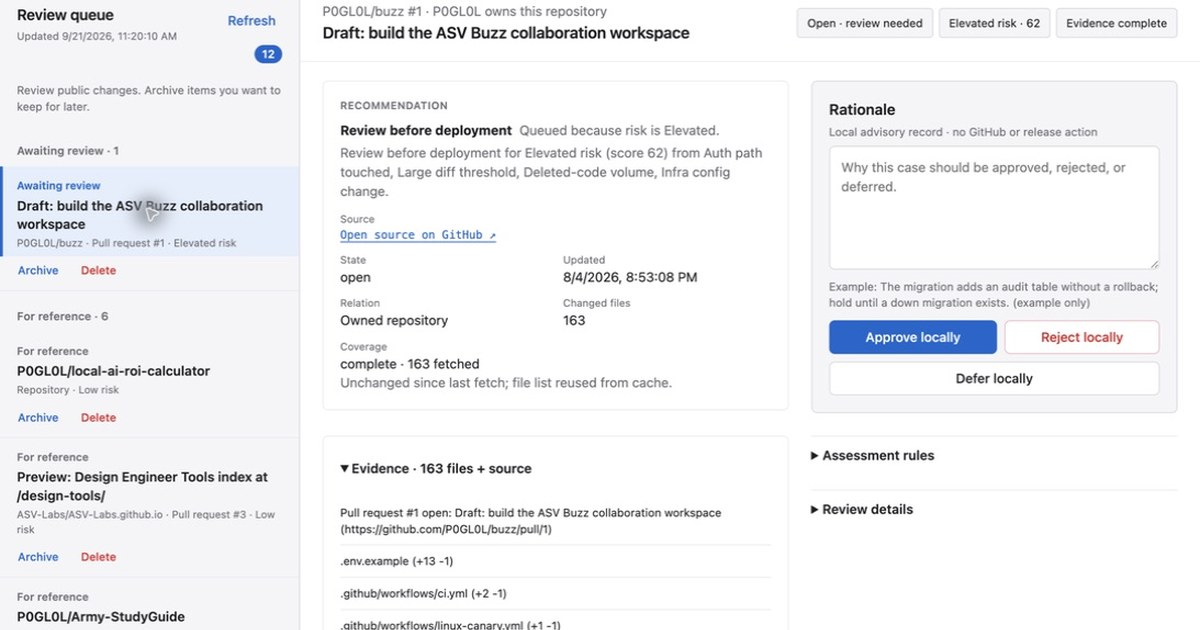
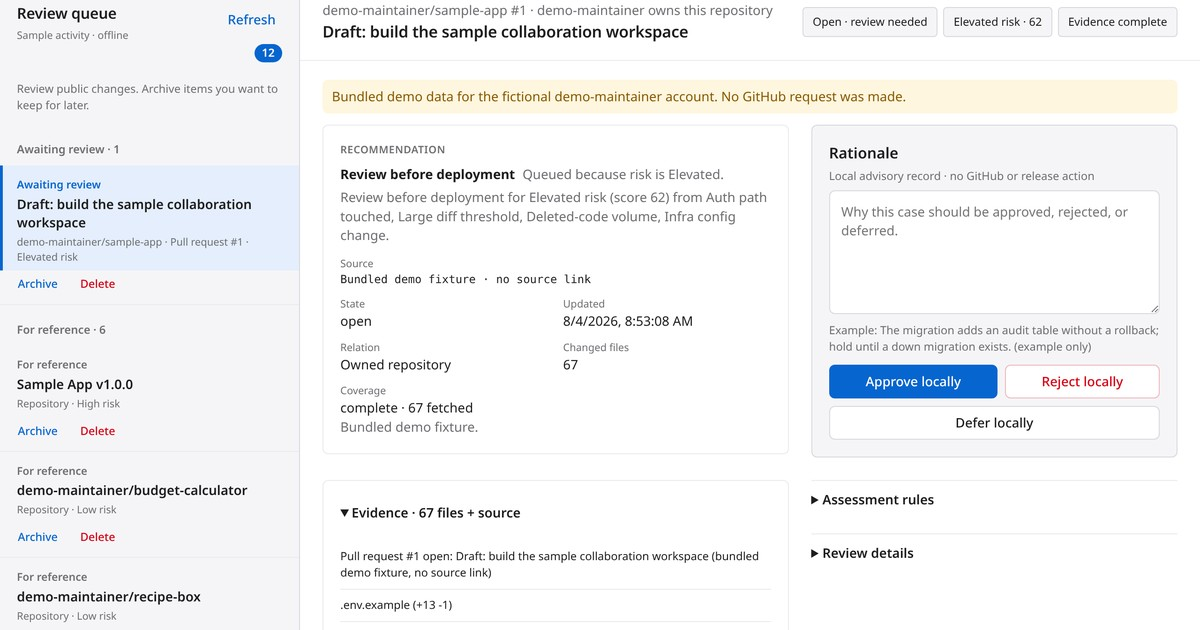
Replace identifying pilot account mentions with demo-account wording [skip ci]
Also replace the Open Graph card with a crop from a development
capture of the demo-data build. Landing copy keeps the verified
0.9.6/build 5 wording.

Squash of 326f94c1, a4058809 and 7c1d3f43 onto gh-pages 3acedd05.

diff --git a/index.html b/index.html
@@ -14,13 +14,13 @@
 <section class="intro" aria-labelledby="headline">
 <div class="intro-copy"><p class="eyebrow">A desktop review trail for software changes</p><h1 id="headline">Understand the change.<br><em>Make the call.</em></h1><p class="lead">Software changes quickly. Knowing what deserves a closer look shouldn’t require piecing together every conversation.</p><p class="definition">Kinetik gathers public work from GitHub into a review queue, highlights what may need attention, and gives you a place to record your judgment—right on your Mac.</p><div class="hero-actions"><a class="button primary" href="#alpha">Apply for the private alpha <span aria-hidden="true">↓</span></a><a class="text-link" href="#workflow">Walk through a review</a></div></div>
 <aside class="trail" aria-label="The review trail"><span class="trail-caption">THE PATH FROM CHANGE TO CLARITY</span><ol><li><span>01 / INCOMING</span><strong>Public activity</strong><p>Proposed changes, issues,<br>and project context.</p></li><li><span>02 / YOUR JUDGMENT</span><strong>A considered decision</strong><p>Read the evidence.<br>Write down your reason.</p></li><li><span>03 / ON YOUR MAC</span><strong>A record to return to</strong><p>Keep the decision.<br>Export the report.</p></li></ol></aside>
-<div class="scope-line"><span class="status-dot" aria-hidden="true"></span><strong>Invitation-only alpha</strong><p>Apple silicon Mac · Public sample activity for <a href="https://github.com/P0GL0L">P0GL0L</a> · Decisions stay local</p></div>
+<div class="scope-line"><span class="status-dot" aria-hidden="true"></span><strong>Invitation-only alpha</strong><p>Apple silicon Mac · Public sample activity from a demo account · Decisions stay local</p></div>
 </section>
 <section class="read-section" id="workflow" aria-labelledby="read-title"><div class="section-index">01 <span>READ THE CHANGE</span></div><div class="read-grid"><div><h2 id="read-title">Start with what<br>actually changed.</h2><p>A <strong>pull request</strong> is a proposed software change. An <strong>issue</strong> is a task, bug report, or discussion. Kinetik brings these together with project activity so you can decide where to look first.</p><p>Each case shows its source, current state, risk band, and evidence coverage. Open the source on GitHub to read the original work.</p><a class="text-link" href="https://github.com/ASV-Labs/kinetik-triage/blob/main/USER_GUIDE.md#2-read-the-evidence">Reading the evidence ↗</a></div><div class="evidence-ledger"><p class="eyebrow">The questions behind each case</p><dl><div><dt>Source</dt><dd>Where did this come from?<small>A link to the original public GitHub item.</small></dd></div><div><dt>Risk</dt><dd>What deserves attention?<small>A rule-based signal for closer human review.</small></dd></div><div><dt>Coverage</dt><dd>How much could Kinetik see?<small>Complete, partial, or unavailable file evidence.</small></dd></div><div><dt>State</dt><dd>Is there still a decision to make?<small>Open work is separated from closed activity.</small></dd></div></dl><p class="footnote">A risk label is a review aid. It is not a guarantee that a change is safe.</p></div></div></section>
 <section class="decide-section" aria-labelledby="decide-title"><div class="section-index">02 <span>RECORD YOUR JUDGMENT</span></div><div class="workbench"><div class="decision-copy"><h2 id="decide-title">The important part<br>is your reason.</h2><p>Approve, reject, or defer a case after reading its evidence. Add a short explanation so your future self knows why.</p><p class="local-boundary">Your decision is a local review note.<br>It does not approve a GitHub pull request or release software.</p><a class="text-link" href="https://github.com/ASV-Labs/kinetik-triage/blob/main/USER_GUIDE.md#3-write-your-reason-and-decide">What each decision means ↗</a></div><div class="trial" data-wdi-product-proof="runnable-dom" data-wdi-source-ref="demo.js (desktop decision validation, 0.9.5/build 4)"><div class="trial-top"><span class="eyebrow">TRY THE DECISION STEP</span><span class="sample-tag">Sample · nothing saved</span></div><p class="sample-context"><strong>Example:</strong> A proposed change alters how a release is approved. What would you want checked before it goes ahead?</p><form id="decision-example" novalidate><label for="rationale">Your reason</label><textarea id="rationale" name="rationale" rows="3" aria-describedby="reason-hint reason-error" placeholder="I would defer until the approval rules have been reviewed…" required></textarea><p class="field-hint" id="reason-hint">Use at least 12 characters. The desktop app asks for the same case-specific explanation.</p><p id="reason-error" class="form-error" role="alert" hidden></p><fieldset><legend class="sr-only">Record a sample local decision</legend><button type="button" name="action" value="approve">Approve locally</button><button type="button" name="action" value="reject">Reject locally</button><button type="button" name="action" value="defer">Defer locally</button></fieldset></form><div id="decision-result" class="result" tabindex="-1" hidden><p class="eyebrow">EXAMPLE OUTCOME</p><h3 id="outcome-title"></h3><p id="outcome-reason"></p><p class="field-hint">In the Mac app, this becomes a saved local record. This website sends and saves nothing from this example.</p><button id="try-again" type="button">Try another decision ↺</button></div><noscript><p>The interactive example needs JavaScript. In the Mac app, write a reason, then choose Approve, Reject, or Defer locally.</p></noscript><p class="demo-note">A small runnable adaptation of the desktop decision form. <a href="provenance.md">View its source notes</a>.</p></div></div></section>
-<section class="keep-section" aria-labelledby="keep-title"><div class="section-index">03 <span>KEEP THE REVIEW TRAIL</span></div><div class="keep-grid"><div class="report-object"><div class="file-line"><span>LOCAL EXPORT</span><span>JSON + MARKDOWN</span></div><h3>Analytics &amp; Metrics</h3><dl><div><dt>Queue</dt><dd>Ingested, actionable, decided, historical</dd></div><div><dt>Decisions</dt><dd>Approve · reject · defer</dd></div><div><dt>Evidence</dt><dd>Risk bands and coverage</dd></div><div><dt>Diagnostics</dt><dd>Fetch time, queue-build time, memory, errors</dd></div></dl><p class="file-name">kinetik-analytics-P0GL0L-[timestamp].md</p><p class="footnote">The report includes the source, fetch time, and any errors so you can judge its freshness.</p></div><div><h2 id="keep-title">Leave with a record,<br>not just a feeling.</h2><p>Your review stays available when you reopen the app. If the underlying assessment changes, Kinetik keeps the earlier decision as history and can ask for a fresh look.</p><p>Export a readable Markdown report or a JSON file for tools. Choose what to share after reviewing its contents.</p><a class="text-link" href="https://github.com/ASV-Labs/kinetik-triage/blob/main/USER_GUIDE.md#5-export-a-report">Export your first report ↗</a></div></div></section>
-<section class="alpha-section" id="alpha" aria-labelledby="alpha-title"><p class="eyebrow">PRIVATE ALPHA / APPLICATIONS</p><div class="alpha-grid"><div><h2 id="alpha-title">A small cohort.<br>A considered start.</h2><p>Apply by email to explore the review workflow using public sample activity. We review each application personally. Applying does not grant access or guarantee an invitation.</p><div id="application-contact"><a class="button primary" href="mailto:SaltyEngineer@ASVLabs.com?subject=Kinetik%20private-alpha%20application&amp;body=Hi%20ASV%20Labs%2C%0A%0AI%20would%20like%20to%20apply%20for%20the%20Kinetik%20Triage%20private%20alpha.%0A%0AName%3A%20%0AMac%20model%20%28Apple%20silicon%29%3A%20%0AmacOS%20version%3A%20%0AWhat%20I%20would%20like%20to%20test%3A%20%0A%0AI%20understand%20that%20this%20pilot%20uses%20public%20P0GL0L%20activity%2C%20records%20decisions%20locally%2C%20and%20requires%20an%20invitation%20before%20I%20receive%20the%20installer.%0A">Apply by email <span aria-hidden="true">↗</span></a><p class="release-note">Opens an email draft. Review it and send it to apply.<br>Opening a draft does not submit an application.</p><p class="application-address">Prefer webmail? Write to <a href="mailto:SaltyEngineer@ASVLabs.com">SaltyEngineer@ASVLabs.com</a> with the subject <strong>Kinetik private-alpha application</strong>.</p></div><ol class="application-steps"><li>Tell us your name, Mac model, macOS version and what you want to test.</li><li>We review your application and reply by email.</li><li>If invited, you receive private installation instructions and the illustrated guide once the Mac package is verified.</li></ol><p class="release-note">No payment required to apply. No automatic access or public download.</p></div><dl class="release-ledger"><div><dt>Candidate</dt><dd>0.9.6 · build 5 <a href="https://github.com/ASV-Labs/kinetik-triage/blob/main/RELEASE_STATUS.md">Details ↗</a></dd></div><div><dt>Platform</dt><dd>Apple silicon · macOS 13 or later</dd></div><div><dt>Data</dt><dd>Public P0GL0L activity. No account picker or private repositories.</dd></div><div><dt>Actions</dt><dd>Local decisions, Library organization and file exports. No GitHub writes or deployments.</dd></div><div><dt>Distribution</dt><dd>Invitation only. A notarized Mac installer is staged for private testing. Downloads are not public.</dd></div><div><dt>Updates</dt><dd>New builds are supplied to approved testers. This alpha does not update itself automatically.</dd></div><div><dt>Help</dt><dd><a href="https://github.com/ASV-Labs/kinetik-triage/blob/main/USER_GUIDE.md">Illustrated user guide ↗</a><a href="https://github.com/ASV-Labs/kinetik-triage/issues">Report a problem ↗</a></dd></div></dl></div></section>
-<section class="questions" aria-labelledby="questions-title"><h2 id="questions-title">Before you try it.</h2><div><details><summary>How does invitation-only access work?</summary><p>Apply by email, then wait for a personal reply. We share installation instructions with approved testers after the package passes its release checks. The desktop pilot has no account login or license enforcement, so please do not redistribute an invited build.</p></details><details><summary>How do I get updates?</summary><p>Approved testers receive new verified builds and release notes through the private invitation channel. Quit Kinetik before replacing the app. Your review files stay on your Mac; back them up before testing a new alpha. There is no automatic updater in this version.</p></details><details><summary>Do I need to be a developer?</summary><p>You can follow the guide without writing code. Familiarity with the project helps you judge a change. Kinetik organizes evidence; it does not replace the people who understand that software.</p></details><details><summary>Can I connect my own projects?</summary><p>Not in this alpha. The current pilot uses public P0GL0L activity, which can include contributions to other repositories. There is no profile picker, private repository access, or GitHub sign-in.</p></details><details><summary>Does “Approve locally” change GitHub?</summary><p>No. All decisions stay on this Mac. Nothing is merged, deployed, or published. Defer records a decision but does not schedule a reminder.</p></details><details><summary>What happens without an internet connection?</summary><p>The app can show its last saved public queue when available. It labels cached or failed loads so you know the data may be old. A first launch without data can show an empty queue and an error.</p></details><details><summary>Where does my information go?</summary><p>The desktop app requests public GitHub data; GitHub sees ordinary network metadata. Your rationale and local decisions are not sent to GitHub. This landing page has no analytics or form submission service. Applying opens your email app; you choose whether to send your application to ASV Labs. Your email provider processes that message. See the <a href="https://github.com/ASV-Labs/kinetik-triage/blob/main/PRIVACY.md">privacy notice</a>.</p></details></div></section>
+<section class="keep-section" aria-labelledby="keep-title"><div class="section-index">03 <span>KEEP THE REVIEW TRAIL</span></div><div class="keep-grid"><div class="report-object"><div class="file-line"><span>LOCAL EXPORT</span><span>JSON + MARKDOWN</span></div><h3>Analytics &amp; Metrics</h3><dl><div><dt>Queue</dt><dd>Ingested, actionable, decided, historical</dd></div><div><dt>Decisions</dt><dd>Approve · reject · defer</dd></div><div><dt>Evidence</dt><dd>Risk bands and coverage</dd></div><div><dt>Diagnostics</dt><dd>Fetch time, queue-build time, memory, errors</dd></div></dl><p class="file-name">kinetik-analytics-[account]-[timestamp].md</p><p class="footnote">The report includes the source, fetch time, and any errors so you can judge its freshness.</p></div><div><h2 id="keep-title">Leave with a record,<br>not just a feeling.</h2><p>Your review stays available when you reopen the app. If the underlying assessment changes, Kinetik keeps the earlier decision as history and can ask for a fresh look.</p><p>Export a readable Markdown report or a JSON file for tools. Choose what to share after reviewing its contents.</p><a class="text-link" href="https://github.com/ASV-Labs/kinetik-triage/blob/main/USER_GUIDE.md#5-export-a-report">Export your first report ↗</a></div></div></section>
+<section class="alpha-section" id="alpha" aria-labelledby="alpha-title"><p class="eyebrow">PRIVATE ALPHA / APPLICATIONS</p><div class="alpha-grid"><div><h2 id="alpha-title">A small cohort.<br>A considered start.</h2><p>Apply by email to explore the review workflow using public sample activity. We review each application personally. Applying does not grant access or guarantee an invitation.</p><div id="application-contact"><a class="button primary" href="mailto:SaltyEngineer@ASVLabs.com?subject=Kinetik%20private-alpha%20application&amp;body=Hi%20ASV%20Labs%2C%0A%0AI%20would%20like%20to%20apply%20for%20the%20Kinetik%20Triage%20private%20alpha.%0A%0AName%3A%20%0AMac%20model%20%28Apple%20silicon%29%3A%20%0AmacOS%20version%3A%20%0AWhat%20I%20would%20like%20to%20test%3A%20%0A%0AI%20understand%20that%20this%20pilot%20uses%20public%20activity%20from%20a%20demo%20account%2C%20records%20decisions%20locally%2C%20and%20requires%20an%20invitation%20before%20I%20receive%20the%20installer.%0A">Apply by email <span aria-hidden="true">↗</span></a><p class="release-note">Opens an email draft. Review it and send it to apply.<br>Opening a draft does not submit an application.</p><p class="application-address">Prefer webmail? Write to <a href="mailto:SaltyEngineer@ASVLabs.com">SaltyEngineer@ASVLabs.com</a> with the subject <strong>Kinetik private-alpha application</strong>.</p></div><ol class="application-steps"><li>Tell us your name, Mac model, macOS version and what you want to test.</li><li>We review your application and reply by email.</li><li>If invited, you receive private installation instructions and the illustrated guide once the Mac package is verified.</li></ol><p class="release-note">No payment required to apply. No automatic access or public download.</p></div><dl class="release-ledger"><div><dt>Candidate</dt><dd>0.9.6 · build 5 <a href="https://github.com/ASV-Labs/kinetik-triage/blob/main/RELEASE_STATUS.md">Details ↗</a></dd></div><div><dt>Platform</dt><dd>Apple silicon · macOS 13 or later</dd></div><div><dt>Data</dt><dd>Public activity from a demo account. No account picker or private repositories.</dd></div><div><dt>Actions</dt><dd>Local decisions, Library organization and file exports. No GitHub writes or deployments.</dd></div><div><dt>Distribution</dt><dd>Invitation only. A notarized Mac installer is staged for private testing. Downloads are not public.</dd></div><div><dt>Updates</dt><dd>New builds are supplied to approved testers. This alpha does not update itself automatically.</dd></div><div><dt>Help</dt><dd><a href="https://github.com/ASV-Labs/kinetik-triage/blob/main/USER_GUIDE.md">Illustrated user guide ↗</a><a href="https://github.com/ASV-Labs/kinetik-triage/issues">Report a problem ↗</a></dd></div></dl></div></section>
+<section class="questions" aria-labelledby="questions-title"><h2 id="questions-title">Before you try it.</h2><div><details><summary>How does invitation-only access work?</summary><p>Apply by email, then wait for a personal reply. We share installation instructions with approved testers after the package passes its release checks. The desktop pilot has no account login or license enforcement, so please do not redistribute an invited build.</p></details><details><summary>How do I get updates?</summary><p>Approved testers receive new verified builds and release notes through the private invitation channel. Quit Kinetik before replacing the app. Your review files stay on your Mac; back them up before testing a new alpha. There is no automatic updater in this version.</p></details><details><summary>Do I need to be a developer?</summary><p>You can follow the guide without writing code. Familiarity with the project helps you judge a change. Kinetik organizes evidence; it does not replace the people who understand that software.</p></details><details><summary>Can I connect my own projects?</summary><p>Not in this alpha. The current pilot uses public activity from a demo account, which can include contributions to other repositories. There is no profile picker, private repository access, or GitHub sign-in.</p></details><details><summary>Does “Approve locally” change GitHub?</summary><p>No. All decisions stay on this Mac. Nothing is merged, deployed, or published. Defer records a decision but does not schedule a reminder.</p></details><details><summary>What happens without an internet connection?</summary><p>The app can show its last saved public queue when available. It labels cached or failed loads so you know the data may be old. A first launch without data can show an empty queue and an error.</p></details><details><summary>Where does my information go?</summary><p>The desktop app requests public GitHub data; GitHub sees ordinary network metadata. Your rationale and local decisions are not sent to GitHub. This landing page has no analytics or form submission service. Applying opens your email app; you choose whether to send your application to ASV Labs. Your email provider processes that message. See the <a href="https://github.com/ASV-Labs/kinetik-triage/blob/main/PRIVACY.md">privacy notice</a>.</p></details></div></section>
 </main>
 <footer><a class="wordmark" href="#">kinetik</a><p>Public changes. Human judgment. Local records.</p><nav aria-label="Footer"><a href="https://github.com/ASV-Labs/kinetik-triage">GitHub ↗</a><a href="https://github.com/ASV-Labs/kinetik-triage/blob/main/PRIVACY.md">Privacy ↗</a></nav><small>© 2026 ASV Labs</small></footer>
 </body></html>

diff --git a/design-notes.md b/design-notes.md
@@ -20,7 +20,7 @@ Implementation stack: static semantic HTML, CSS and vanilla JavaScript on GitHub
 Experience thesis: Visitors understand that Kinetik gathers public software work into a review queue, helps them inspect its evidence, and keeps a written local decision. They feel oriented, believe the narrow alpha promise, and know exactly where to get the matching guide and release.
 
 Creative concept: **The review trail.** A blue rule runs from public change, through human judgment, to a portable record. This follows the app's actual information flow instead of a generic feature taxonomy.
-Subject cues: (1) repository / proposed change / local review vocabulary translated beside its technical term; (2) visible Approve / Reject / Defer choices with a required written reason; (3) a report extract and device-only boundary; (4) fixed P0GL0L sample scope next to the release action.
+Subject cues: (1) repository / proposed change / local review vocabulary translated beside its technical term; (2) visible Approve / Reject / Defer choices with a required written reason; (3) a report extract and device-only boundary; (4) fixed demo-account sample scope next to the release action.
 Selected composition: product-walkthrough.
 Why this composition fits: the product is a sequence of evidence and decisions. An ordered spine lets a novice understand that sequence before installing.
 Style atlas match: SaaS or Technical Product, precise + trustworthy.
